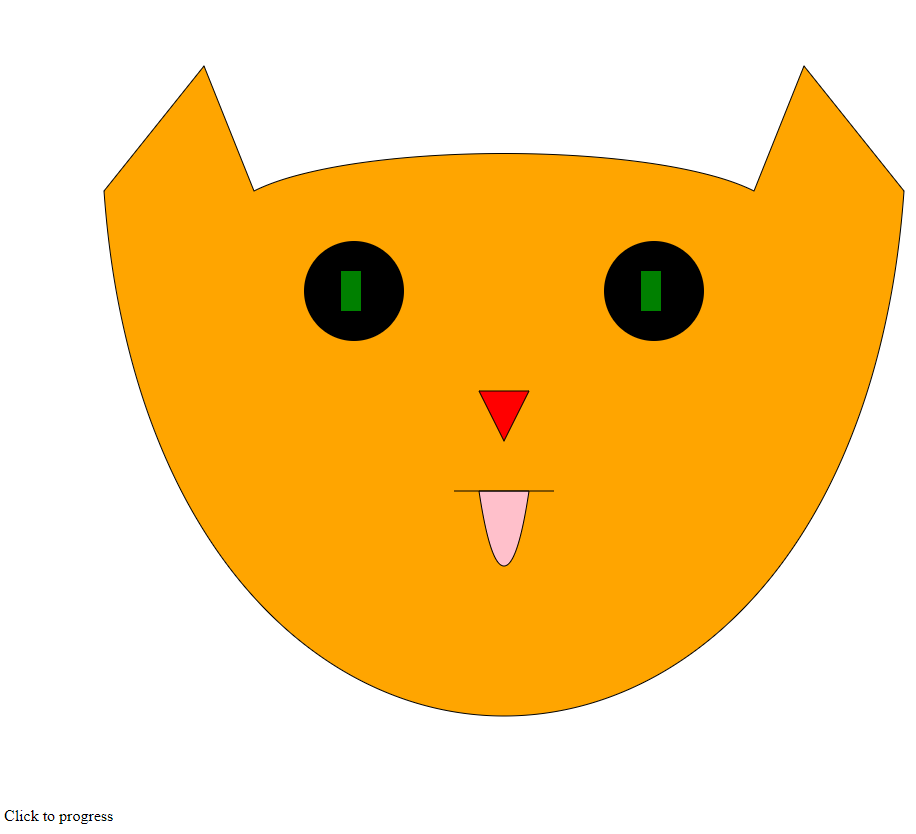
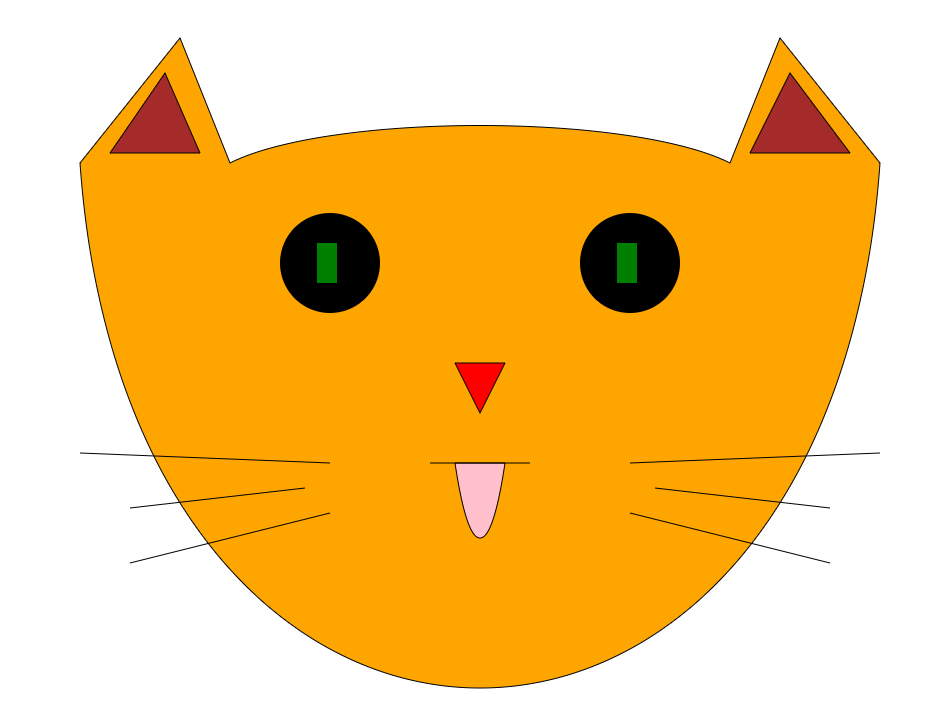
final touches

diff --git a/README.md b/README.md
@@ -6,6 +6,8 @@ For assignment 1, I went through a couple of iterations when trying to decide ho
 ![Cat](https://github.com/allyziemage/a1-ghd3/blob/master/cat.PNG "nonclickable cat")
 
 # Technical/design achievements
-I have two technical achievements. First is that I used events to unveil deeper components of the visualization (rectangle -> circle -> cat). This was an uncertian process at first because I used the same event (click) on layer components and was unsure if clicking the rectangle would remove both the rectangle **and** the circle (it did not). I feel this has taught me more about how events work in d3. Additionally, cats are not made of straight lines. In fact, cats often don't even look like they're put together properly, therefore I used Bezier curves for the cats head and mouth (aside from the ears). This was challenging because there are multiple components in a Bezier curve that dictate where it starts/ends and the arc of the curve. I'll be honest, it was mostly a lot of guess-and-check with x,y coordinates to get the curve shapes that I wanted.
+I have two technical achievements. First is that I used events to unveil deeper components of the visualization (rectangle -> circle -> cat). This was an uncertian process at first because I used the same event (click) on layer components and was unsure if clicking the rectangle would remove both the rectangle **and** the circle (it did not). I feel this has taught me more about how events work in d3. Additionally, cats are not made of straight lines. In fact, cats often don't even look like they're put together properly (I included a picture of my cat as proof), therefore I used Bezier curves for the cats head and mouth (aside from the ears). This was challenging because there are multiple components in a Bezier curve that dictate where it starts/ends and the arc of the curve. I'll be honest, it was mostly a lot of guess-and-check with x,y coordinates to get the curve shapes that I wanted.
+
+![Cat](https://github.com/allyziemage/a1-ghd3/blob/master/bella.JPG "broken cat")
 
 My design achievement is simply that I structured the shapes we were supposed to use into one cohesive image that is fairly identifiable as a cat. 
